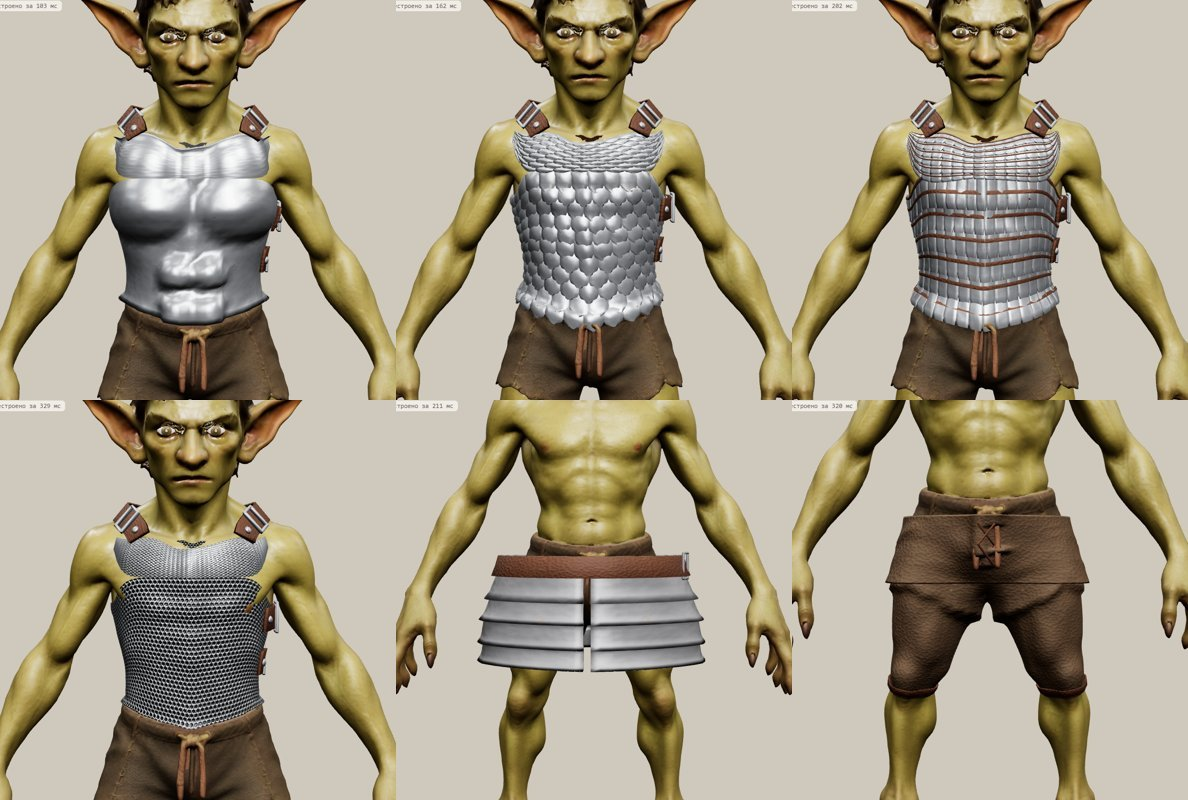
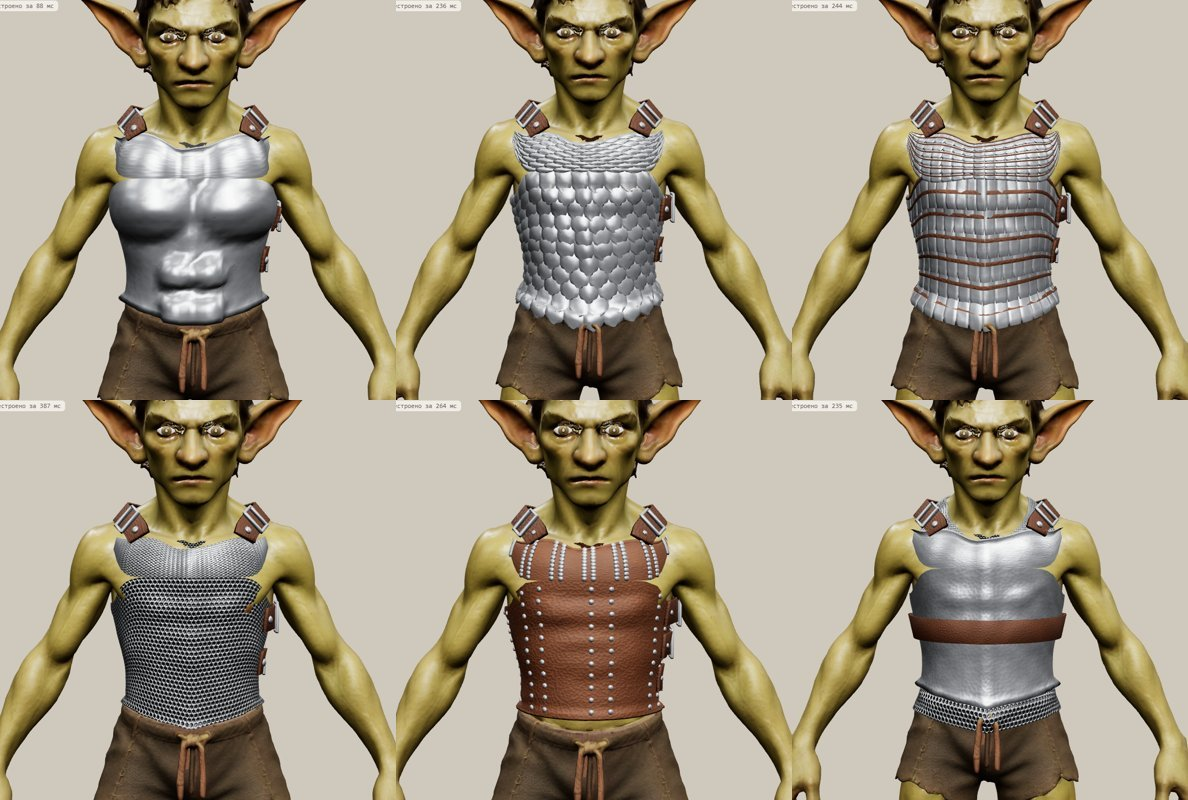
Clothes cut to the body; procedural pieces corrected by hand in Armour
- Under the armour: the hem measured from the crotch down the character's own thigh (a goblin's short legs get
  a shirt to the upper thigh, not a dress), the body taken in at the waist, the seam at the hips, slimmer sleeves
- Armour mode: a piece made in «Equipment: procedural» (helmets, elbows, footwear, gloves, clothes too) opens
  as made («The piece as made»): gizmo, points, openings, wall; «Put on» keeps its own weights and its mask
  (blender_wear_fit keep_weights), and its procedural parameters stay in the fit
- README: the surfaces picture without the trousers and the plate skirt; the clothes picture renewed

Changed region(s): [[0.3114, 0.5, 1.0, 1.0]]

diff --git a/tool/landmark_editor.html b/tool/landmark_editor.html
@@ -27,6 +27,7 @@
   .wearpanel button.on { background:var(--accent); color:var(--accent-fg); }
   .wearpanel .small { color:var(--muted); font-size:12px; }
   .wearpanel.skel .limbonly { display:none; }
+  .wearpanel.ready .limbonly:not(.manual), .wearpanel.ready .notready { display:none; }
   body.wear #mWear { background:var(--accent); color:var(--accent-fg); }
   .stage { position:relative; flex:1; background:var(--stage); border:1px solid var(--line); border-radius:10px; overflow:hidden; min-height:320px; }
   /* tool bar over the stage: view and display, then the pose check */
@@ -153,31 +154,32 @@
         <option value="boot">{{ed.boot_stands_upright_the_shaft_on_the}}</option>
         <option value="pauldron">{{ed.pauldron}}</option>
         <option value="torso">{{ed.torso_breastplate}}</option><option value="head">{{ed.head_helmet}}</option>
-        <option value="skeleton">{{ed.the_whole_piece_by_its_own_skeleton}}</option></select></label>
-      <label>{{ed.side_2}} <select id="wSide"><option value="L">{{ed.left_on_the_right_of_the_screen}}</option><option value="R">{{ed.right_on_the_left_of_the_screen}}</option></select></label>
-      <label class="chk"><input type="checkbox" id="wMirror" checked> {{ed.mirror_onto_the_other_side}}</label>
+        <option value="skeleton">{{ed.the_whole_piece_by_its_own_skeleton}}</option>
+        <option value="ready">{{ed.ready_piece}}</option></select></label>
+      <label class="notready">{{ed.side_2}} <select id="wSide"><option value="L">{{ed.left_on_the_right_of_the_screen}}</option><option value="R">{{ed.right_on_the_left_of_the_screen}}</option></select></label>
+      <label class="chk notready"><input type="checkbox" id="wMirror" checked> {{ed.mirror_onto_the_other_side}}</label>
       <label class="limbonly">{{ed.position_along}} <input type="range" id="wPos" min="-0.3" max="1.2" step="0.01"></label>
       <label class="limbonly">{{ed.length}} <input type="range" id="wLen" min="0.5" max="2" step="0.01" value="1"></label>
       <label class="limbonly" title="{{ed.scale_across_the_arm_the_whole_piece}}">{{ed.girth}} <input type="range" id="wThick" min="0.6" max="1.6" step="0.01" value="1"></label>
-      <label class="limbonly" title="{{ed.the_thickness_of_the_armour_itself}}">{{ed.wall_thickness}} <input type="range" id="wWall" min="0.3" max="1.6" step="0.01" value="1"></label>
+      <label class="limbonly manual" title="{{ed.the_thickness_of_the_armour_itself}}">{{ed.wall_thickness}} <input type="range" id="wWall" min="0.3" max="1.6" step="0.01" value="1"></label>
       <label class="limbonly">{{ed.twist_about_the_axis}} <input type="range" id="wTwist" min="-180" max="180" step="1" value="0"></label>
-      <label>{{ed.gap_to_the_skin}} <input type="range" id="wGap" min="0" max="0.3" step="0.01" value="0.04"></label>
+      <label class="notready">{{ed.gap_to_the_skin}} <input type="range" id="wGap" min="0" max="0.3" step="0.01" value="0.04"></label>
       <label class="limbonly" title="{{ed.0_the_piece_s_shape_as_it_is_pushed}}">{{ed.fit_to_the_body}} <input type="range" id="wConform" min="0" max="1" step="0.05" value="0.5"></label>
       <label class="limbonly" title="{{ed.1_the_piece_moves_with_the_bone_and}}"><span id="wRigidName">{{ed.rigidity}}</span> <input type="range" id="wRigid" min="0" max="1" step="0.05" value="0.8"></label>
       <label class="chk limbonly" title="{{ed.nodes_of_the_inner_wall_red_under}}"><input type="checkbox" id="wInside" checked> {{ed.fit_nodes}}</label>
       <div class="small limbonly" id="wInfo"></div>
-      <div class="row limbonly"><button id="wMove" title="{{ed.arrows_on_the_piece_move_g}}">{{ed.move}}</button><button id="wRot" title="{{ed.rotate_about_the_middle_of_the_bone}}">{{ed.rotate}}</button><button id="wScale" title="{{ed.size_the_green_axis_is_the_length}}">{{ed.size}}</button></div>
-      <div class="row limbonly"><button id="wPoints" title="{{ed.a_click_on_the_piece_places_a_point}}">{{ed.points}}</button><button id="wDel" title="{{ed.remove_the_selected_point_delete}}">{{ed.remove}}</button><button id="wDelAll" title="{{ed.remove_all_points_the_piece_returns}}">{{ed.remove_all}}</button></div>
-      <div class="row limbonly"><button id="wRing" title="{{ed.click_on_the_edge_of_an_opening_arm}}">{{ed.opening}}</button><button id="wRingDel" title="{{ed.remove_the_selected_opening}}">{{ed.remove_the_opening}}</button></div>
-      <label class="limbonly" title="{{ed.draws_the_edge_of_the_selected}}">{{ed.narrow_the_opening}} <input type="range" id="wRingS" min="0" max="0.6" step="0.01" value="0"></label>
-      <label class="limbonly" title="{{ed.how_far_around_the_edge_the_armour}}">{{ed.edge_width}} <input type="range" id="wRingB" min="0.2" max="1.5" step="0.05" value="0.6"></label>
-      <label class="chk limbonly"><input type="checkbox" id="wRingSym" checked> {{ed.and_the_symmetric_opening}}</label>
+      <div class="row limbonly manual"><button id="wMove" title="{{ed.arrows_on_the_piece_move_g}}">{{ed.move}}</button><button id="wRot" title="{{ed.rotate_about_the_middle_of_the_bone}}">{{ed.rotate}}</button><button id="wScale" title="{{ed.size_the_green_axis_is_the_length}}">{{ed.size}}</button></div>
+      <div class="row limbonly manual"><button id="wPoints" title="{{ed.a_click_on_the_piece_places_a_point}}">{{ed.points}}</button><button id="wDel" title="{{ed.remove_the_selected_point_delete}}">{{ed.remove}}</button><button id="wDelAll" title="{{ed.remove_all_points_the_piece_returns}}">{{ed.remove_all}}</button></div>
+      <div class="row limbonly manual"><button id="wRing" title="{{ed.click_on_the_edge_of_an_opening_arm}}">{{ed.opening}}</button><button id="wRingDel" title="{{ed.remove_the_selected_opening}}">{{ed.remove_the_opening}}</button></div>
+      <label class="limbonly manual" title="{{ed.draws_the_edge_of_the_selected}}">{{ed.narrow_the_opening}} <input type="range" id="wRingS" min="0" max="0.6" step="0.01" value="0"></label>
+      <label class="limbonly manual" title="{{ed.how_far_around_the_edge_the_armour}}">{{ed.edge_width}} <input type="range" id="wRingB" min="0.2" max="1.5" step="0.05" value="0.6"></label>
+      <label class="chk limbonly manual"><input type="checkbox" id="wRingSym" checked> {{ed.and_the_symmetric_opening}}</label>
       <div class="row limbonly"><select id="wOpenEnd" title="{{ed.which_end_of_the_piece_is_closed_on}}">
         <option value="bottom">{{ed.lower_end}}</option><option value="top">{{ed.upper_end}}</option><option value="both">{{ed.both_ends}}</option></select>
         <button id="wHollow" title="{{ed.a_generated_piece_is_sometimes}}">{{ed.open_up}}</button></div>
       <div class="row limbonly"><button id="wRepaint" title="{{ed.hunyuan3d_paint_paints_the_texture}}">{{ed.repaint_for_the_shape}}</button></div>
       <label class="limbonly" title="{{ed.the_front_view_the_piece_was_made}}">{{ed.piece_picture}} <input type="file" id="wRef" accept="image/*"></label>
-      <label class="limbonly">{{ed.point_radius}} <input type="range" id="wRad" min="0.05" max="1" step="0.01" value="0.25"></label>
+      <label class="limbonly manual">{{ed.point_radius}} <input type="range" id="wRad" min="0.05" max="1" step="0.01" value="0.25"></label>
       <div class="row limbonly"><button id="wFit" title="{{ed.find_the_position_tilt_thickness_and}}">{{ed.fit_to_the_skin}}</button></div>
       <div id="wUnderBox" class="limbonly" hidden title="{{ed.under_hint}}"><div class="sub">{{ed.goes_over}}</div><div id="wUnder"></div></div>
       <div class="row"><button id="wReset">{{ed.reset}}</button><button id="wSave" title="{{ed.save_the_fitting_next_to_the}}">{{ed.save}}</button><button id="wApply" class="primary" title="{{ed.fit_in_blender_and_save}}">{{ed.put_on}}</button></div>
@@ -2575,6 +2577,11 @@ function wearRetargetAll() {   // every copy: its side, mirrored when the piece 
   if ($('wMirror').checked) wear.rgeo[od] = wearRetarget(od !== wear.skel.side);
 }
 const isSkelMode = () => $('wPart').value === 'skeleton';
+// a piece made in «Equipment: procedural» (or by its generators), opened as it was made: already on this character with
+// its own weights; moved, turned, sized as a whole, reshaped by points, openings and its wall, then Blender keeps its
+// weights and mask (blender_wear_fit.py keep_weights)
+const isReady = () => $('wPart').value === 'ready';
+const pointUnit = () => (isReady() ? .25 * H : wear.pca.L);   // a point's radius: of the piece (a pair of gloves is wide)
 function wearSkelBones() {   // the character's bones the piece follows (Blender takes the weights only from them)
   const used = new Set(), names = new Map();
   for (const tbl of Object.values(DATA.names || {})) for (const n of Object.values(tbl)) names.set(THREE.PropertyBinding.sanitizeNodeName(n), n);
@@ -2594,6 +2601,13 @@ async function wearExport() {   // the copies as shown, as one GLB (plain meshes
 const wv = (id) => +$(id).value;
 function wearAuto() {
   $('wearPanel').classList.toggle('skel', isSkelMode());
+  $('wearPanel').classList.toggle('ready', isReady());
+  if (isReady()) {   // where it is; the gizmo about its middle, in the world's frame
+    const box = new THREE.Box3(); for (const p of wear.parts) { p.geo.computeBoundingBox(); box.union(p.geo.boundingBox); }
+    wear.fit = {}; wear.off = new V3(); wear.q0 = new Q(); wear.mid = box.getCenter(new V3());
+    wearHelper.quaternion.identity(); wearHelper.scale.set(1, 1, 1); $('wWall').value = 1; tcW.detach(); wearDeform();
+    return true;
+  }
   if (isSkelMode()) {
     if (!wear.skel) { $('wStatus').textContent = '{{js:ed.the_piece_has_no_skeleton_of_its_own}}'; return false; }
     wear.fit = {}; wear.off = new V3(); tcW.detach(); wearRetargetAll(); return true;
@@ -2711,6 +2725,11 @@ function wearPlacement(L) {   // armour space -> world, from the sliders (withou
 }
 function wearMatrices() {   // [{side, M, M0, L}]: every copy (M0 as placed, M with its fit by the skin) and its limb
   const part = $('wPart').value, sd = $('wSide').value;
+  if (part === 'ready') {   // as made, with the gizmo's move, turn and size about its middle
+    const mid = wear.mid, h = mid.clone().add(wear.off || new V3());
+    const E = new THREE.Matrix4().compose(h, wearHelper.quaternion, wearHelper.scale).multiply(new THREE.Matrix4().makeTranslation(-mid.x, -mid.y, -mid.z));
+    return [{ side: 'C', M: E, M0: E, L: null }];
+  }
   if (part === 'skeleton') {   // already on the character: geometries per copy, no limb
     if (!wear.rgeo) return [];
     return Object.entries(wear.rgeo).map(([side, geos]) => ({ side, M: new THREE.Matrix4(), M0: new THREE.Matrix4(), L: null, geos }));
@@ -2751,7 +2770,7 @@ function wearDraw() {
   wearGroup.updateMatrixWorld(true);
   if (!tcW.dragging && wear.mid) wearHelper.position.copy(wear.mid.clone().add(wear.off || new V3()));
   const r = .011 * H / Math.max(1, camera.zoom);   // the surface points, on every copy
-  for (const { M, L } of mats) if (L) wear.handles.forEach((hd, i) => {
+  for (const { M, L } of mats) if (L || isReady()) wear.handles.forEach((hd, i) => {
     const sp = new THREE.Mesh(sphereGeo, i === wear.sel ? COL.sel : COL.bad); sp.scale.setScalar(r); sp.renderOrder = 999;
     sp.position.copy(hd.p.clone().add(hd.d).applyMatrix4(M)); wearGroup.add(sp);
   });
@@ -2853,7 +2872,7 @@ function ringDraw(mats) {   // the rim points and the fitted circles, on every c
   (wear.rings || []).forEach((g, gi) => {
     const f = ringFit(g.pts);
     for (const { M, L } of mats) {
-      if (!L) continue;
+      if (!L && !isReady()) continue;
       for (const p of g.pts) {
         const sp = new THREE.Mesh(sphereGeo, gi === wear.ringSel ? COL.sel : COL.derived); sp.scale.setScalar(r); sp.renderOrder = 999;
         sp.position.copy(p.clone().applyMatrix4(M)); wearGroup.add(sp);
@@ -2887,14 +2906,14 @@ function wearPick(e) {   // a click on the first copy: an existing point (by scr
   const hit = r.intersectObjects(copies, true)[0]; if (!hit) { $('wStatus').textContent = '{{js:ed.missed_the_piece_click_on_the_armour}}'; return; }
   let g = hit.object; while (g.parent && g.parent !== wearGroup) g = g.parent;
   const loc = hit.point.clone().applyMatrix4(g.matrix.clone().invert()), copy = copies.indexOf(g);
-  wear.handles.push({ p: loc, d: new V3(), r: +$('wRad').value * wear.pca.L });
+  wear.handles.push({ p: loc, d: new V3(), r: +$('wRad').value * pointUnit() });
   wearSelect(wear.handles.length - 1, copy);
   $('wStatus').textContent = `{{raw:ed.point_placed_yellow_drag_its_arrows}}`;
 }
 function wearSelect(i, copy = wear.selCopy || 0) {
   wear.sel = i; wear.selCopy = copy; for (const id of ['wMove', 'wRot', 'wScale']) $(id).classList.remove('on');
   if (i >= 0) {
-    const h = wear.handles[i]; $('wRad').value = h.r / wear.pca.L;
+    const h = wear.handles[i]; $('wRad').value = h.r / pointUnit();
     wearPoint.position.copy(h.p.clone().add(h.d).applyMatrix4(wearCopyM())); wearPoint.quaternion.copy(wearHelper.quaternion);
     tcW.setMode('translate'); tcW.attach(wearPoint);
   } else tcW.detach();
@@ -2933,7 +2952,7 @@ const WEAR_NAMES = [[/boot|shoe|sabaton|сапог|ботин/i, 'boot'], [/cuis
   [/helm|hat|hood|head|шлем|голов/i, 'head'], [/cuirass|breast|chest|vest|torso|armou?r_?plate|нагруд|кирас|торс/i, 'torso']];
 const wearGuessPart = (name) => (WEAR_NAMES.find(([re]) => re.test(name)) || [])[1] || null;
 const wearItem = (name) => name.replace(/[^A-Za-z0-9_-]+/g, '_').replace(/^_+|_+$/g, '') || 'item';
-async function wearLoad(buf, name, state, keepPart = false) {
+async function wearLoad(buf, name, state, keepPart = false, ready = false) {
   const gltf = await new Promise((res, rej) => new GLTFLoader().parse(buf, '', res, rej));
   gltf.scene.updateMatrixWorld(true);
   const parts = [];
@@ -2962,12 +2981,14 @@ async function wearLoad(buf, name, state, keepPart = false) {
     if (a) { wear.pca = wearShape(parts, a); wear.wall = wallGrid(parts, wear.pca); }
   }
   const guess = wearGuessPart(name);
-  if (!state && !keepPart && wear.skel && guess !== 'pauldron') {   // a piece with its own skeleton (a pauldron: a dome, never a tube): on one limb segment, or the whole piece by the skeleton
+  if (ready && !state) $('wPart').value = 'ready';
+  else if (!state && !keepPart && wear.skel && guess !== 'pauldron') {   // a piece with its own skeleton (a pauldron: a dome, never a tube): on one limb segment, or the whole piece by the skeleton
     console.log('piece skeleton', wear.skel.part, wear.skel.side, wear.skel.topShare.toFixed(2), 'tube on', wear.skel.tube);
     $('wSide').value = wear.skel.side;
     $('wPart').value = wear.skel.tube || 'skeleton';   // a tube on one limb segment by the skin; feet, hands and longer pieces by the skeleton
   } else if (!state && !keepPart && guess) { $('wPart').value = guess; if (wear.skel) $('wSide').value = wear.skel.side; }
   $('wearPanel').classList.toggle('skel', isSkelMode());
+  $('wearPanel').classList.toggle('ready', isReady());
   if (state ? wearRestore(state) : wearAuto()) {
     wearDraw();
     $('wStatus').textContent = state ? '{{js:ed.saved_fitting_opened}}' : '{{js:ed.the_piece_is_in_place_adjust_it_with}}';
@@ -3077,6 +3098,13 @@ function capWeights(sd) {   // a pauldron moves as one piece: the same weights e
   return sh && ar ? { [sh]: 1 - k, [ar]: k } : { [sh || ar]: 1 };
 }
 async function wearRequest() {   // the piece, where it sits and how to fit it: for «Надеть» and «Сохранить»
+  if (isReady()) {   // the piece as made goes as it is: its move, its reshaping; its weights stay
+    return { item: wear.item, glb: wear.b64, keep_weights: true, offset: 0, conform: 0, rigidity: 0,
+             wall: { k: wv('wWall'), mid: wear.pca.mid.toArray(), axis: wear.pca.axis.toArray() },
+             deforms: wear.handles.filter((h) => h.d.lengthSq() > 0).map((h) => ({ p: h.p.toArray(), d: h.d.toArray(), r: h.r })),
+             rings: ringList().map((g) => ({ c: g.c.toArray(), n: g.n.toArray(), r: g.r, s: g.s, b: g.b })), under: [],
+             placements: [{ side: 'C', matrix: Array.from(wearMatrices()[0].M.elements) }], state: wearState() };
+  }
   if (isSkelMode()) {   // the copies as shown; the original piece goes along for «Открыть»
     const Ld = limbOf(wear.skel.part in WEAR_PARTS ? wear.skel.part : 'forearm', $('wSide').value);
     return { item: wear.item, glb: await wearExport(), src_glb: wear.b64, offset: wv('wGap') * .5 * (Ld ? Ld.r : .05 * H), conform: 0, rigidity: 0,
@@ -3118,11 +3146,13 @@ $('wFile').onchange = async () => {
 };
 $('wOpen').onclick = async () => {
   const f = wearFits[+$('wSaved').value]; if (!f) return;
-  if (f.procedural) { $('wStatus').textContent = '{{js:ed.procedural_piece}}'; return; }   // made from parameters: change it there
   $('wStatus').textContent = '{{js:ed.opening_2}}';
   try {
     const st = await (await fetch(fileUrl(f.fit) + '?t=' + Date.now())).json();
-    await wearLoad(await (await fetch(fileUrl(f.src) + '?t=' + Date.now())).arrayBuffer(), f.item, st.state);
+    // a procedural piece: as made (its corrections, when there are any, over it)
+    const ready = f.procedural, state = ready ? (st.state && st.state.part === 'ready' ? st.state : null) : st.state;
+    await wearLoad(await (await fetch(fileUrl(f.src) + '?t=' + Date.now())).arrayBuffer(), f.item, state, false, ready);
+    if (ready) $('wStatus').textContent = '{{js:ed.ready_opened}}';
     if (f.glb) await wearShowFitted(f.glb);
   } catch (e) { $('wStatus').textContent = '{{js:ed.could_not_open_the_saved_fitting}}' + e.message; }
 };
@@ -3210,7 +3240,7 @@ $('wRingDel').onclick = () => { if (!wear || wear.ringSel < 0) return; wear.ring
 for (const [id, key] of [['wRingS', 's'], ['wRingB', 'b']]) $(id).addEventListener('input', () => {
   const g = wear && wear.rings[wear.ringSel]; if (!g) return; g[key] = +$(id).value; wearDeform(); wearEdited(); });
 $('wRingSym').addEventListener('change', () => { const g = wear && wear.rings[wear.ringSel]; if (!g) return; g.sym = $('wRingSym').checked; wearDeform(); wearEdited(); });
-$('wRad').addEventListener('input', () => { if (wear && wear.sel >= 0) { wear.handles[wear.sel].r = +$('wRad').value * wear.pca.L; wearDeform(); wearDraw(); } });
+$('wRad').addEventListener('input', () => { if (wear && wear.sel >= 0) { wear.handles[wear.sel].r = +$('wRad').value * pointUnit(); wearDeform(); wearDraw(); } });
 canvas.addEventListener('pointerdown', (e) => {
   if (wearOn && wear && wear.ringMode && e.button === 0 && !tcW.axis) { ringPick(e); e.stopImmediatePropagation(); return; }
   if (!wearOn || !wear || !wear.points || e.button !== 0 || tcW.axis) return;

diff --git a/tool/armour_gen_editor.html b/tool/armour_gen_editor.html
@@ -1200,17 +1200,19 @@ function glove(side, p) {
 // or laced, arming points at the shoulders, the arms and the hem, mail voiders at the armpits. Braies are loose
 // trousers, a padded coif a bag round the head
 const GARMENTS = {
-  // top: where the body ends and the skirt goes on (along the torso from the hips: 0 the hips, 1 the neck); hem: the
-  // skirt's bottom (null: none); waist: the body in with the waist (0: straight down from the chest); ease: how loose
-  // (in the limbs' radii, over the gap); open: the front fastened with 'ties' or 'lace'; collar: a standing collar's
-  // height (along the neck); slits: [angle from the front (deg), depth (of the skirt's length), half width (deg)]
-  shirt: { top: .1, hem: -.5, waist: 0, ease: .12, flare: .25, folds: .15, sleeves: true, neckTie: true, slits: [[90, .35, 6], [-90, .35, 6]] },
-  aketon: { top: .12, hem: -.36, waist: .35, ease: .08, flare: .2, folds: .1, sleeves: true, open: 'ties', ties: 5, collar: .3, cuffTies: true,
-    slits: [[90, .4, 6], [-90, .4, 6]] },
-  gambeson: { top: .1, hem: -.62, waist: .6, ease: .08, flare: .7, folds: .2, sleeves: true, open: 'ties', ties: 6, collar: .35, slits: [[180, .45, 6]] },
-  doublet: { top: -.04, hem: null, waist: 1, ease: .05, sleeves: true, open: 'lace', collar: .35, points: true },
-  voider: { top: -.04, hem: null, waist: 1, ease: .05, sleeves: true, open: 'lace', collar: .35, points: true, voiders: true },
-  vest: { top: .16, hem: -.16, waist: .8, ease: .06, flare: .6, folds: .1, sleeves: false, open: 'ties', ties: 5, collar: .3, slits: [[90, .8, 6], [-90, .8, 6]] },
+  // top: where the body ends and the skirt goes on (along the torso from the hips: 0 the hips, 1 the neck); hem: how far
+  // the skirt comes down the thigh from the crotch, as a share of the thigh's length (the legs' own: a goblin's short
+  // ones get a short skirt, not a dress; negative: above the crotch; null: none); waist: the body in with the waist (0:
+  // straight down from the chest); ease: how loose (in the limbs' radii, over the gap); open: the front fastened with
+  // 'ties' or 'lace'; collar: a standing collar's height (along the neck); slits: [angle from the front (deg), depth (of
+  // the skirt's length), half width (deg)]
+  shirt: { top: .02, hem: .25, waist: .6, ease: .06, flare: .08, folds: .1, sleeves: true, neckTie: true, slits: [[90, .45, 6], [-90, .45, 6]] },
+  aketon: { top: .02, hem: .12, waist: .8, ease: .05, flare: .06, folds: .05, sleeves: true, open: 'ties', ties: 5, collar: .3, cuffTies: true,
+    slits: [[90, .5, 6], [-90, .5, 6]] },
+  gambeson: { top: .02, hem: .4, waist: .85, ease: .05, flare: .3, folds: .1, sleeves: true, open: 'ties', ties: 6, collar: .35, slits: [[180, .5, 6]] },
+  doublet: { top: -.04, hem: null, waist: 1, ease: .04, sleeves: true, open: 'lace', collar: .35, points: true },
+  voider: { top: -.04, hem: null, waist: 1, ease: .04, sleeves: true, open: 'lace', collar: .35, points: true, voiders: true },
+  vest: { top: .14, hem: -.05, waist: .85, ease: .05, flare: .4, folds: .05, sleeves: false, open: 'ties', ties: 5, collar: .3, slits: [[90, .7, 6], [-90, .7, 6]] },
 };
 // a bow (a tie, an arming point): a knot, two loops and two ends hanging, s its size, on the surface at c (normal n)
 function bow(acc, c, n, up, s, face) {
@@ -1227,14 +1229,14 @@ const bowOn = (acc, sh, t, a, s, down) => { prepShell(sh); bow(acc, pt(sh, t, a,
 // the direction d round a limb's axis, as its angle
 const angAt = (limb, d) => limb.angOf(d.clone().addScaledVector(limb.u, -d.dot(limb.u)).normalize());
 function sleeve(p, G, s, thick) {   // round the upper arm from the shoulder over the elbow, round the forearm to the wrist
-  const acc = new Acc(), gap = p.gap + G.ease, sf = { ...p, surface: p.cloth_quilt ? 'quilt' : 'plain' };
+  const acc = new Acc(), gap = p.gap + .7 * G.ease, sf = { ...p, surface: p.cloth_quilt ? 'quilt' : 'plain' };
   const { limb: ul } = limbOf('rerebrace', s), PU = profile('sleeve_up' + s, ul, -.2, 1.08, { foreign: PIECES.rerebrace.foreign, limbOnly: true });
   PU.shell(gap, .3);
   acc.w = weigher('limb', PB['arm_' + s], p.rigidity);
-  // wider at its top, most under the arm: over the armhole's edge, which turns in under it (the armpit's folds)
+  // a little wider at its top, most under the arm: over the armhole's edge, which turns in under it (the armpit's folds)
   const upA = angAt(ul, UP), under = (a) => (1 - Math.cos(a - upA)) / 2;
   const up = { limb: ul, P: PU, ta: -.2, tb: 1.08, top: 'a', arcs: arcsOf(0, 360, 0), R: PU.R, thick,
-    r: (t, a) => PU.rIn(t, a) + .3 * PU.R * smooth(.3, -.1, t) * (.4 + .6 * under(a)) };
+    r: (t, a) => PU.rIn(t, a) + .18 * PU.R * smooth(.15, -.1, t) * (.4 + .6 * under(a)) };
   surface(acc, up, sf);
   const { limb: fl } = limbOf('bracer', s), PF = profile('sleeve_lo' + s, fl, -.08, .97, { foreign: PIECES.bracer.foreign, limbOnly: true });
   PF.shell(gap, .3);
@@ -1279,7 +1281,11 @@ function garment(p, G) {
   const [body] = buildPiece('cuirass', ['C'], { ...q, t0: G.top, waist: G.waist, sector: 360, opening: G.open ? 'front' : 'none',
     closure: G.open || 'across', ties: G.ties || 0, shoulders: 'yoke', neckline: G.collar ? .03 : .08, armhole: 30, relief: .3, neck_tie: !!G.neckTie });
   const out = [body], thick = body.thick;
-  if (G.hem !== null) out.push(...buildPiece('tassets', ['C'], { ...q, t0: G.hem, t1: G.top + .05, splits: 0, sector: 360, flare: G.flare, folds: G.folds,
+  // the hem from the crotch (straight down from the hips) and the thigh's length, along the torso
+  const { limb: tl } = limbOf('cuirass', 'C'), down = cast(tl.a, tl.u.clone().negate(), tl.len), tcr = down ? -down.distance / tl.len : -.12;
+  const thighs = ['L', 'R'].filter((s) => PB['upleg_' + s] && PB['leg_' + s]).map((s) => joint('upleg_' + s).distanceTo(joint('leg_' + s)));
+  const thigh = (thighs.length ? thighs.reduce((x, y) => x + y) / thighs.length : .25 * HEIGHT) / tl.len;
+  if (G.hem !== null) out.push(...buildPiece('tassets', ['C'], { ...q, t0: Math.min(tcr - G.hem * thigh, G.top - .1), t1: G.top + .05, splits: 0, sector: 360, flare: G.flare, folds: G.folds,
     wrap: false, front_panel: false, hem_band: false, relief: .95, rigidity: .1, floor: (a) => body.ring(G.top, a), tuck: G.top,
     skirt_open: G.open ? D(2) : 0, slits: (G.slits || []).map(([a, d, w]) => [D(a), d, D(w)]) }));
   if (G.points) {   // at the hem, for the leg harness

diff --git a/tool/blender_wear_fit.py b/tool/blender_wear_fit.py
@@ -12,6 +12,9 @@ job.json: {"character": rigged.glb, "armour": piece.glb, "out": out.glb, "item":
            "wall": {"k": wall thickness factor, "mid", "axis": the piece's tube axis in its own space},
            "rings": [{"c", "n", "r", "s", "b"}: openings drawn in, piece space],
            "under": [fitted.glb, ...]: pieces already put on that this one goes over,
+           "keep_weights": true (a piece made in «Equipment: procedural», corrected by hand: it keeps its own weights,
+                           is not fitted or pushed again, only moved and reshaped as the editor shows it),
+           "mask_keep": its own mask.json (what it hid as made: ears under a helmet, hair under a coif) added to the new one,
            "report": path.json}
 
 The editor (landmark_editor.html, mode «Броня») already placed each copy: along the limb between its joints, sized
@@ -44,6 +47,7 @@ from i18n import t as _t
 
 job = json.loads(Path(sys.argv[sys.argv.index("--") + 1]).read_text(encoding="utf-8"))
 report = {}
+KEEP = bool(job.get("keep_weights"))
 
 
 def fail(msg):
@@ -80,7 +84,8 @@ for o in src_meshes:
     o.data = o.data.copy()
     o.data.transform(mw)
     o.matrix_world = Matrix()
-    o.vertex_groups.clear()
+    if not KEEP:
+        o.vertex_groups.clear()
     if o.data.shape_keys:
         o.shape_key_clear()
 new_names = [o.name for o in new]   # the join removes objects: keep names, not references
@@ -667,7 +672,12 @@ for pl in job["placements"]:
     bpy.context.scene.collection.objects.link(o)
     rep = {"vertices": len(me.vertices)}
     limb = None
-    if pl.get("limb"):
+    if KEEP:   # its own weights: the mesh's groups by the same names, in the same order
+        for g in src.vertex_groups:
+            o.vertex_groups.new(name=g.name)
+        used = {g.group for v in me.vertices for g in v.groups if g.weight > 1e-3}
+        rep["bones"] = [g.name for g in o.vertex_groups if g.index in used]
+    elif pl.get("limb"):
         limb = Limb((CONV @ Vector(pl["limb"]["a"]).to_4d()).to_3d(), (CONV @ Vector(pl["limb"]["b"]).to_4d()).to_3d())
         tight = [(CONV @ Vector(p).to_4d()).to_3d() for p in pl.get("tight") or []]   # glTF -> Blender
         rep.update(fit_limb(me, limb, tight, ("Arm", "Hand") if tight else (), pl.get("follow") != "down"))
@@ -681,12 +691,16 @@ for pl in job["placements"]:
             rep["inside_under"] = push_out(me, .3 * size, cap_under_need(J, float(pl.get("r", .1 * size))), rigid=True)
     me.update()
     radius = 0.0
-    if limb:   # about half the limb's thickness: the piece bends smoothly, never vertex by vertex
+    if KEEP:
+        pass
+    elif limb:   # about half the limb's thickness: the piece bends smoothly, never vertex by vertex
         rs = sorted(limb.cyl(v.co)[2].length for v in me.vertices)
         radius = min(.5 * rs[len(rs) // 2], .25 * limb.len)
     else:      # by the skeleton: a tenth of the piece, so a boot still bends at the ankle
         radius = .1 * size
-    if pl.get("weights"):   # the same weights for every vertex (a pauldron: between the collarbone and the arm)
+    if KEEP:
+        pass
+    elif pl.get("weights"):   # the same weights for every vertex (a pauldron: between the collarbone and the arm)
         ws = {n: w for n, w in pl["weights"].items() if n in arm.data.bones and w > 1e-3}
         tot = sum(ws.values()) or 1.0
         for n, w in ws.items():
@@ -704,7 +718,10 @@ bpy.data.objects.remove(src, do_unlink=True)
 
 if job.get("mask"):   # what of the body the pieces hide (the game takes it away while they are on: body_mask.py)
     from body_mask import body_mask
-    Path(job["mask"]).write_text(json.dumps(body_mask(body, pieces)), encoding="utf-8")
+    keys = {tuple(x) for x in body_mask(body, pieces)}
+    if job.get("mask_keep") and Path(job["mask_keep"]).exists():
+        keys |= {tuple(x) for x in json.loads(Path(job["mask_keep"]).read_text(encoding="utf-8"))}
+    Path(job["mask"]).write_text(json.dumps([list(x) for x in sorted(keys)]), encoding="utf-8")
 
 # export the skeleton and the pieces only
 for o in list(bpy.data.objects):

diff --git a/tool/landmarks.py b/tool/landmarks.py
@@ -137,8 +137,12 @@ def _save_fit(rigged: Path, item: str, piece: bytes, state) -> dict:
     src = rigged.parent / f"{stem}_wear_{item}.src.glb"
     fit = rigged.parent / f"{stem}_wear_{item}.fit.json"
     src.write_bytes(piece)
+    try:   # a piece made in «Equipment: procedural» and corrected here keeps its parameters (it opens there again)
+        made = json.loads(fit.read_text(encoding="utf-8")).get("procedural") if fit.exists() else None
+    except (OSError, ValueError):
+        made = None
     fit.write_text(json.dumps({"item": item, "src": src.name, "saved": datetime.now().isoformat(timespec="seconds"),
-                               "state": state}, ensure_ascii=False, indent=1), encoding="utf-8")
+                               **({"procedural": made} if made else {}), "state": state}, ensure_ascii=False, indent=1), encoding="utf-8")
     return _fit_entry(fit)
 
 
@@ -151,7 +155,7 @@ def _fit_entry(fit: Path) -> dict:
             "src": fit.with_name(base + ".src.glb").resolve().as_posix(), "glb": glb.resolve().as_posix() if glb.exists() else None,
             "under": (saved.get("state") or {}).get("under") or [],   # the pieces it was put on over
             "part": (saved.get("state") or {}).get("part"),
-            "procedural": bool(saved.get("procedural"))}   # made in «Equipment: procedural» (not reopened in the editor)
+            "procedural": bool(saved.get("procedural"))}   # made in «Equipment: procedural»: opened as made (its own weights)
 
 
 def saved_fits(rigged: Path) -> list:
@@ -176,7 +180,12 @@ def _wear(cfg, req, rigged: Path, item: str, put_on: bool) -> dict:
     piece = work / "piece.glb"
     piece.write_bytes(piece_bytes)
     out = rigged.parent / f"{stem}_wear_{item}.glb"
-    job = {"character": str(rigged), "armour": str(clean_glb(piece)), "out": str(out), "item": item,
+    keep = bool(req.get("keep_weights"))   # a procedural piece corrected by hand: its own skin, weights and mask stay
+    mask_keep = rigged.parent / f"{stem}_wear_{item}.mask.json"
+    if keep and mask_keep.exists():   # what it hid as made (ears under a helmet...): kept aside, the new one adds to it
+        shutil.copy2(mask_keep, work / "mask_made.json")
+    job = {"character": str(rigged), "armour": str(piece if keep else clean_glb(piece)), "out": str(out), "item": item,
+           "keep_weights": keep, "mask_keep": str(work / "mask_made.json") if keep else None,
            "placements": req["placements"], "offset": float(req.get("offset", 0.0)), "deforms": req.get("deforms", []),
            "conform": float(req.get("conform", 0.5)), "rigidity": float(req.get("rigidity", 0.8)), "wall": req.get("wall"),
            "rings": req.get("rings", []), "under": _under(rigged, item, req.get("under") or []),

diff --git a/README.ru.md b/README.ru.md
@@ -208,7 +208,7 @@
 
 ![Поддоспешная одежда на гоблине: льняная рубаха, акетон, гамбезон, подлатный дублет, дублет с кольчужными вставками; жилет, брэ, длинные брэ, гамбезон сбоку](docs/images/procedural_undercloth.jpg)
 
-![Нагрудники: анатомический, чешуйчатый, ламеллярный, кольчужный; юбка-тассеты; широкие штаны с манжетами](docs/images/procedural_surfaces.jpg)
+![Нагрудники: анатомический, чешуйчатый, ламеллярный; кольчужный, бригантина, латы на кольчуге](docs/images/procedural_surfaces.jpg)
 
 ![Латы: нагрудник до шеи с проймами; с наплечниками, полосами, золотой окантовкой и кольчугой под ними; он же после запекания; наплечник отдельно](docs/images/procedural_cuirass.jpg)
 
@@ -216,7 +216,7 @@
 
 ![Редактор процедурной брони: латный нагрудник поверх целого комплекта (подлатный дублет, кольчужная юбка, стальные руки и ноги), руки подняты](docs/images/procedural_editor.jpg)
 
-Готовая вещь ложится рядом с персонажем как надетая в «Броне», поэтому её видят примерочная в Godot и список надетых вещей в редакторе. Она садится сразу, без подгонки, и весь комплект получается в одном стиле, каждая вещь делается поверх надетых под ней (стальные руки — поверх рукавов дублета). На других телах тоже работает: справа салад на фее.
+Готовая вещь ложится рядом с персонажем как надетая в «Броне», поэтому её видят примерочная в Godot и список надетых вещей в редакторе. Она садится сразу, без подгонки, и весь комплект получается в одном стиле, каждая вещь делается поверх надетых под ней (стальные руки — поверх рукавов дублета). На других телах тоже работает: справа салад на фее. Править руками её всё равно можно. В «Броне» любая такая вещь, включая шлемы, налокотники, обувь, перчатки и одежду, открывается как сделана — часть тела «Готовая вещь». Её можно двигать, поворачивать и менять размер гизмо, править форму точками, проёмами и толщиной стенки. «Надеть» сохраняет её собственные веса и то, что прячет её маска (уши под шлемом). Новая генерация заменяет эти правки.
 
 ![Целый процедурный комплект в примерочной Godot спереди, сбоку и сзади: армет, латный нагрудник с наплечниками поверх подлатного дублета, кольчужная юбка, стальные руки и ноги, латные перчатки, сабатоны; салад на фее](docs/images/procedural_pieces.jpg)
 

diff --git a/README.md b/README.md
@@ -155,7 +155,7 @@ A «Helmet» is not made of the skin: it is one of six constructions of the helm
 
 ![Under the armour on the goblin: linen shirt, short aketon, long gambeson, arming doublet, doublet with mail voiders; quilted vest, braies, long braies, the gambeson from the side](docs/images/procedural_undercloth.jpg)
 
-![Breastplates: anatomical, scales, lamellar, mail; a skirt of tassets; loose trousers with cuffs](docs/images/procedural_surfaces.jpg)
+![Breastplates: anatomical, scales, lamellar; mail, brigandine, plate over mail](docs/images/procedural_surfaces.jpg)
 
 ![Plate: a breastplate up to the neck with armholes; with spaulders, lames, gold trim and mail under; the same baked; a pauldron alone](docs/images/procedural_cuirass.jpg)
 
@@ -163,7 +163,7 @@ A «Helmet» is not made of the skin: it is one of six constructions of the helm
 
 ![The procedural editor: the plate breastplate made over a whole set (an arming doublet, a mail skirt, steel arms and legs), arms up](docs/images/procedural_editor.jpg)
 
-The piece is put on next to the character like one fitted in «Armour», so the Godot fitting room and the editor's other pieces have it. It fits by construction, needs no fitting, and a whole set comes out in one style, each piece made over the ones under it (the steel arms over the doublet's sleeves). It works on other bodies too: on the right, a sallet on a fairy.
+The piece is put on next to the character like one fitted in «Armour», so the Godot fitting room and the editor's other pieces have it. It fits by construction, needs no fitting, and a whole set comes out in one style, each piece made over the ones under it (the steel arms over the doublet's sleeves). It works on other bodies too: on the right, a sallet on a fairy. It can still be corrected by hand: in «Armour» any of them (helmets, elbows, footwear, gloves and clothes too) opens as made, part «The piece as made»: moved, turned and sized with the gizmo, reshaped with points, openings and the wall thickness; «Put on» keeps its own weights and what its mask hides (the ears under a helmet). Generating it again replaces the corrections.
 
 ![A whole procedural set in the Godot fitting room from the front, the side and the back: an armet, a plate breastplate with pauldrons over an arming doublet, a mail skirt, steel arms and legs, hourglass gauntlets, sabatons; a sallet on a fairy](docs/images/procedural_pieces.jpg)
 
